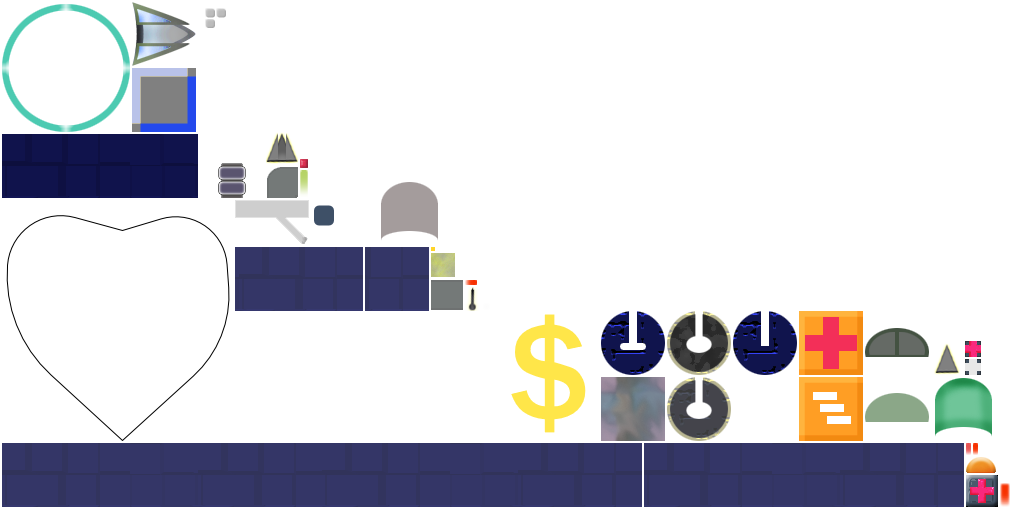
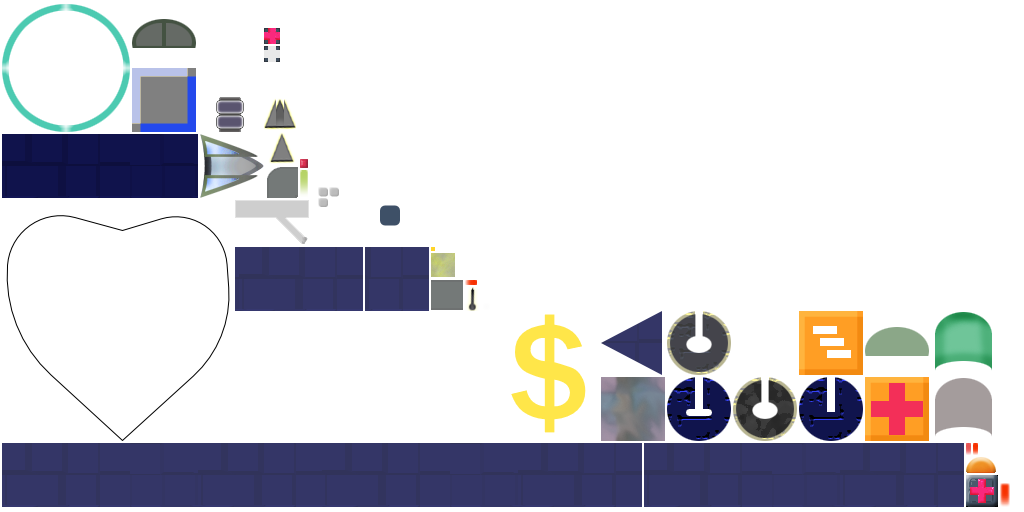
Octaroom corners fix

diff --git a/core/src/main/java/com/vesas/spacefly/world/procedural/room/octaroom/OctaRoomBuilder.java b/core/src/main/java/com/vesas/spacefly/world/procedural/room/octaroom/OctaRoomBuilder.java
@@ -6,12 +6,9 @@ import com.vesas.spacefly.visibility.Visibility;
 import com.vesas.spacefly.world.procedural.FeatureBlock;
 import com.vesas.spacefly.world.procedural.generator.MetaOctaRoom;
 import com.vesas.spacefly.world.procedural.generator.MetaPortal;
-import com.vesas.spacefly.world.procedural.generator.MetaRectangleRoom;
-import com.vesas.spacefly.world.procedural.room.Block1;
 import com.vesas.spacefly.world.procedural.room.WallBlock;
+import com.vesas.spacefly.world.procedural.room.octaroom.OctaRoom.WallWedge;
 import com.vesas.spacefly.world.procedural.room.rectangleroom.ExitDir;
-import com.vesas.spacefly.world.procedural.room.rectangleroom.RectangleRoom;
-import com.vesas.spacefly.world.procedural.room.rectangleroom.RoomEntrance;
 
 public class OctaRoomBuilder
 {
@@ -54,7 +51,7 @@ public class OctaRoomBuilder
 		return INSTANCE;
 	}
 
-	private void buildNorthWall(MetaPortal portal) {
+	private void buildNorthWall(MetaPortal portal, OctaRoom room) {
 
 		// will the segment be at the edge of the visibility polygon?
 		boolean boundary = portal == null;
@@ -62,6 +59,12 @@ public class OctaRoomBuilder
 		if( portal == null )
 		{
 			addBlocksToNorth( xpos + apersqrttwo, ypos + ysize, sidelen);
+
+			OctaRoom.WallWedge wedge = new OctaRoom.WallWedge( xpos + apersqrttwo, ypos + ysize, 90+22.5f);
+			room.addWedge(wedge);
+
+			OctaRoom.WallWedge wedge2 = new OctaRoom.WallWedge( xpos + xsize - apersqrttwo, ypos + ysize, 90-22.5f);
+			room.addWedge(wedge2);
 		}
 
 		visib.addSegment( xpos + apersqrttwo, 
@@ -71,13 +74,19 @@ public class OctaRoomBuilder
 						boundary);
 
 	}
-	private void buildSouthWall(MetaPortal portal) {
+	private void buildSouthWall(MetaPortal portal, OctaRoom room) {
 		
 		// will the segment be at the edge of the visibility polygon?
 		boolean boundary = portal == null;
 
 		if( portal == null ) {
 			addBlocksToSouth( xpos + apersqrttwo, ypos, sidelen);
+
+			OctaRoom.WallWedge wedge = new OctaRoom.WallWedge( xpos + apersqrttwo, ypos, -90-22.5f);
+			room.addWedge(wedge);
+
+			OctaRoom.WallWedge wedge2 = new OctaRoom.WallWedge( xpos + xsize - apersqrttwo, ypos, -90+22.5f);
+			room.addWedge(wedge2);
 		}
 
 		visib.addSegment( 
@@ -88,7 +97,7 @@ public class OctaRoomBuilder
 					boundary
 					);
 	}
-	private void buildWestWall(MetaPortal portal) {
+	private void buildWestWall(MetaPortal portal, OctaRoom room) {
 
 		// will the segment be at the edge of the visibility polygon?
 		boolean boundary = portal == null;
@@ -96,6 +105,12 @@ public class OctaRoomBuilder
 		if( portal == null ) {
 
 			addBlocksToLeftUp( xpos, ypos + apersqrttwo, sidelen);
+
+			OctaRoom.WallWedge wedge = new OctaRoom.WallWedge( xpos, ypos + apersqrttwo, 180+22.5f);
+			room.addWedge(wedge);
+
+			OctaRoom.WallWedge wedge2 = new OctaRoom.WallWedge( xpos, ypos + ysize - apersqrttwo, 180-22.5f);
+			room.addWedge(wedge2);
 		}
 
 		visib.addSegment( xpos, 
@@ -105,7 +120,7 @@ public class OctaRoomBuilder
 			boundary);
 		
 	}
-	private void buildEastWall(MetaPortal portal) {
+	private void buildEastWall(MetaPortal portal, OctaRoom room) {
 
 		// will the segment be at the edge of the visibility polygon?
 		boolean boundary = portal == null;
@@ -113,6 +128,11 @@ public class OctaRoomBuilder
 		if( portal == null ) {
 			addBlocksToRightUp( xpos + xsize, ypos + apersqrttwo, sidelen);
 
+			OctaRoom.WallWedge wedge = new OctaRoom.WallWedge( xpos + xsize, ypos + apersqrttwo, 0-22.5f);
+			room.addWedge(wedge);
+
+			OctaRoom.WallWedge wedge2 = new OctaRoom.WallWedge( xpos + xsize, ypos + ysize - apersqrttwo, 0+22.5f);
+			room.addWedge(wedge2);
 		}
 
 		visib.addSegment( xpos + xsize, 
@@ -205,19 +225,19 @@ public class OctaRoomBuilder
 
 		visib.startConvexArea();
 		buildSouthEastWall();
-		buildEastWall(ePortal);
+		buildEastWall(ePortal, room);
 		buildNorthEastWall();
 		visib.finishConvexArea();
 
 		visib.startConvexArea();
-		buildSouthWall(sPortal);
-		buildNorthWall(nPortal);
+		buildSouthWall(sPortal, room);
+		buildNorthWall(nPortal, room);
 		visib.finishConvexArea();
 		
 		visib.startConvexArea();
 		buildNorthWestWall();
 		buildSouthWestWall();
-		buildWestWall(wPortal);
+		buildWestWall(wPortal, room);
 		visib.finishConvexArea();
 		
 		room.setPosition( metaRoom.getBounds().x, metaRoom.getBounds().y);

diff --git a/core/src/main/java/com/vesas/spacefly/world/procedural/room/octaroom/OctaRoom.java b/core/src/main/java/com/vesas/spacefly/world/procedural/room/octaroom/OctaRoom.java
@@ -3,9 +3,18 @@ package com.vesas.spacefly.world.procedural.room.octaroom;
 import com.badlogic.gdx.graphics.Color;
 import com.badlogic.gdx.graphics.Pixmap;
 import com.badlogic.gdx.graphics.Texture;
+import com.badlogic.gdx.graphics.g2d.Batch;
+import com.badlogic.gdx.graphics.g2d.Sprite;
 import com.badlogic.gdx.graphics.g2d.SpriteBatch;
+import com.badlogic.gdx.graphics.g2d.TextureRegion;
+import com.badlogic.gdx.math.Polygon;
+import com.badlogic.gdx.math.Vector2;
+import com.badlogic.gdx.physics.box2d.Body;
+import com.badlogic.gdx.physics.box2d.BodyDef.BodyType;
 import com.badlogic.gdx.utils.Array;
 import com.vesas.spacefly.GameScreen;
+import com.vesas.spacefly.box2d.BodyBuilder;
+import com.vesas.spacefly.game.G;
 import com.vesas.spacefly.world.procedural.FeatureBlock;
 import com.vesas.spacefly.world.procedural.room.RoomFeature;
 
@@ -18,11 +27,17 @@ public class OctaRoom extends RoomFeature
 	public static float WALL_WIDTH = 0.5f;
 	
 	private Array<FeatureBlock> blocks = new Array<FeatureBlock>();
+
+	private Array<WallWedge> wedges = new Array<WallWedge>();
 	
 	Texture tex;
 	
 	public void addBlocks( Array<FeatureBlock> blocks ) {
 		this.blocks.addAll( blocks );
+	}
+
+	public void addWedge(WallWedge wallWedge) {
+		wedges.add(wallWedge);
 	}
 
 	public void draw(SpriteBatch batch)	
@@ -35,6 +50,10 @@ public class OctaRoom extends RoomFeature
 		{
 			final FeatureBlock block = blocks.get( i );
 			block.draw( batch );
+		}
+
+		for(int i = 0; i < wedges.size; i++) {
+			wedges.get(i).draw(batch);
 		}
 	}
 
@@ -103,6 +122,33 @@ public class OctaRoom extends RoomFeature
 		screen.worldBatch.draw( tex, this.xpos, this.ypos, this.width, this.height);
 	}
 	
+
+	public static class WallWedge
+	{
+		private Sprite sprite;
+		
+		private float xpos, ypos;
+		private float rotation;
+		
+		public WallWedge( float xpos, float ypos, float rotate )
+		{
+			this.xpos = xpos;
+			this.ypos = ypos;
+			this.rotation = rotate;
+
+			sprite = G.getAtlas().createSprite("edge_tri");
+		}
+
+		public void draw(Batch batch) {
+
+			sprite.setSize(0.477f,0.40f);
+			sprite.setOrigin(0.0f, 0.2f);
+			sprite.setPosition( xpos, ypos - 0.2f); // -0.25f to compensate for the origin
+			sprite.setRotation( rotation );
+			sprite.draw(batch);
+		}
+
+	}
 
 }
 
